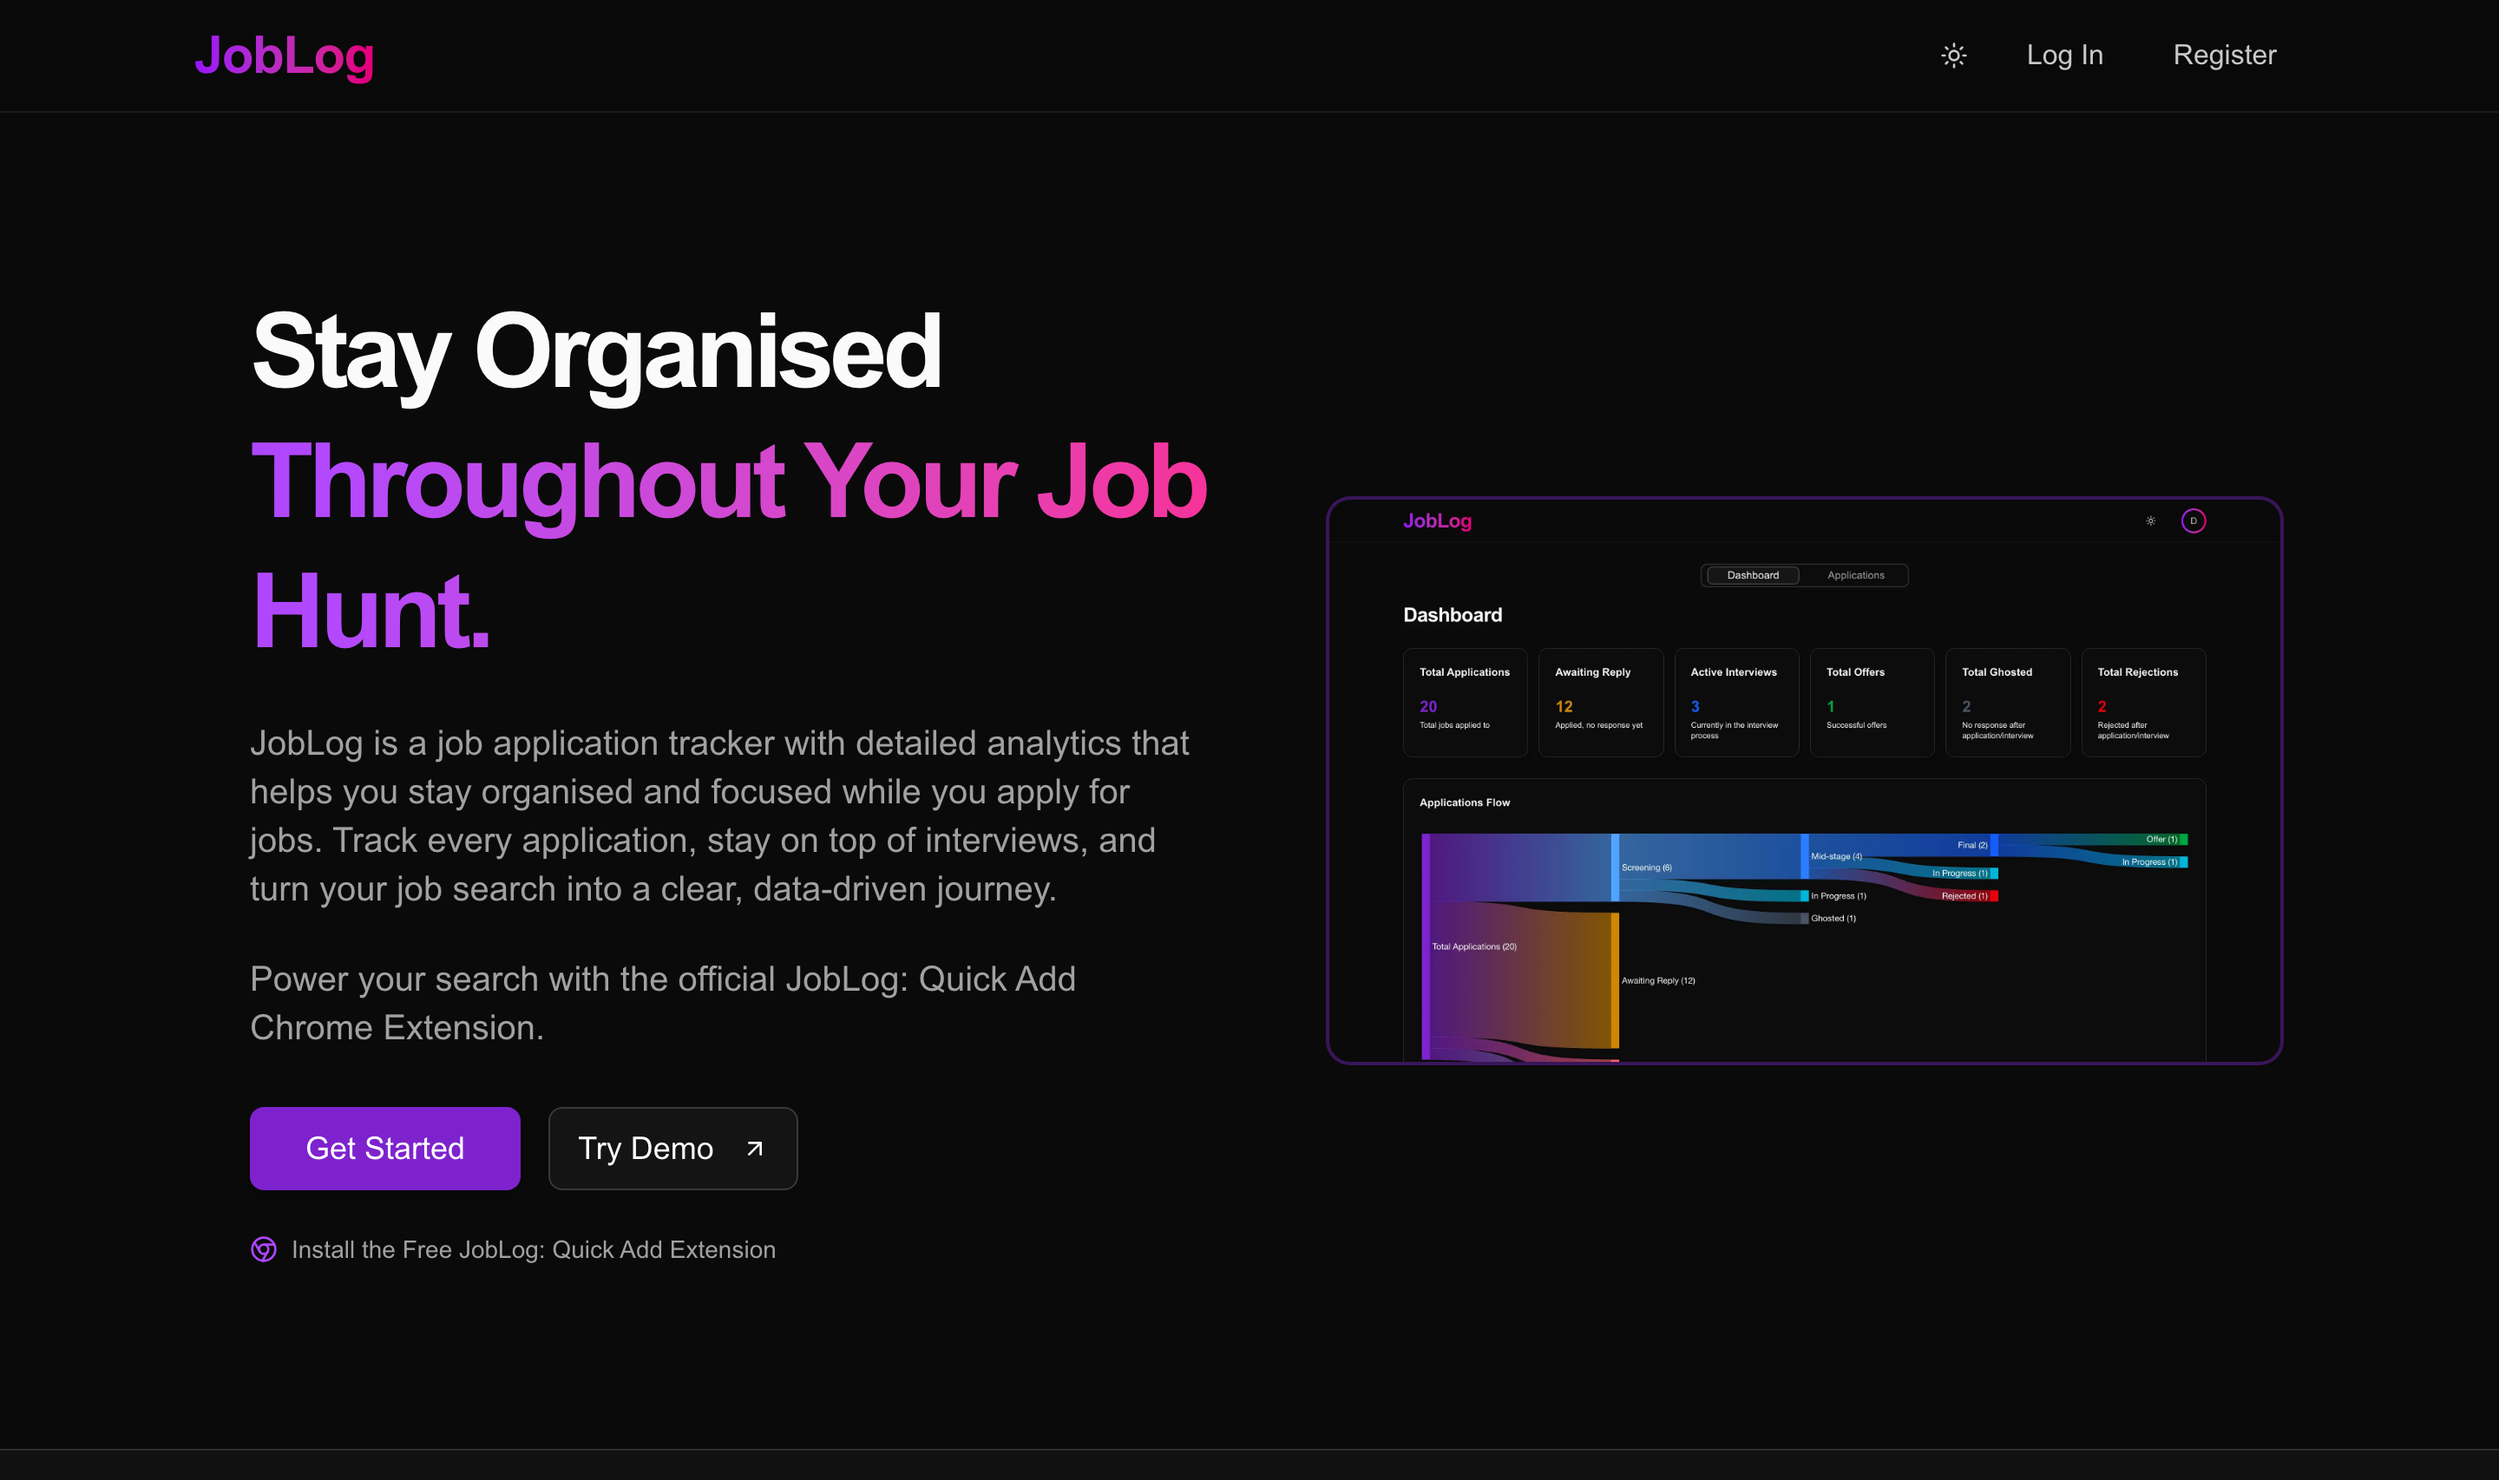
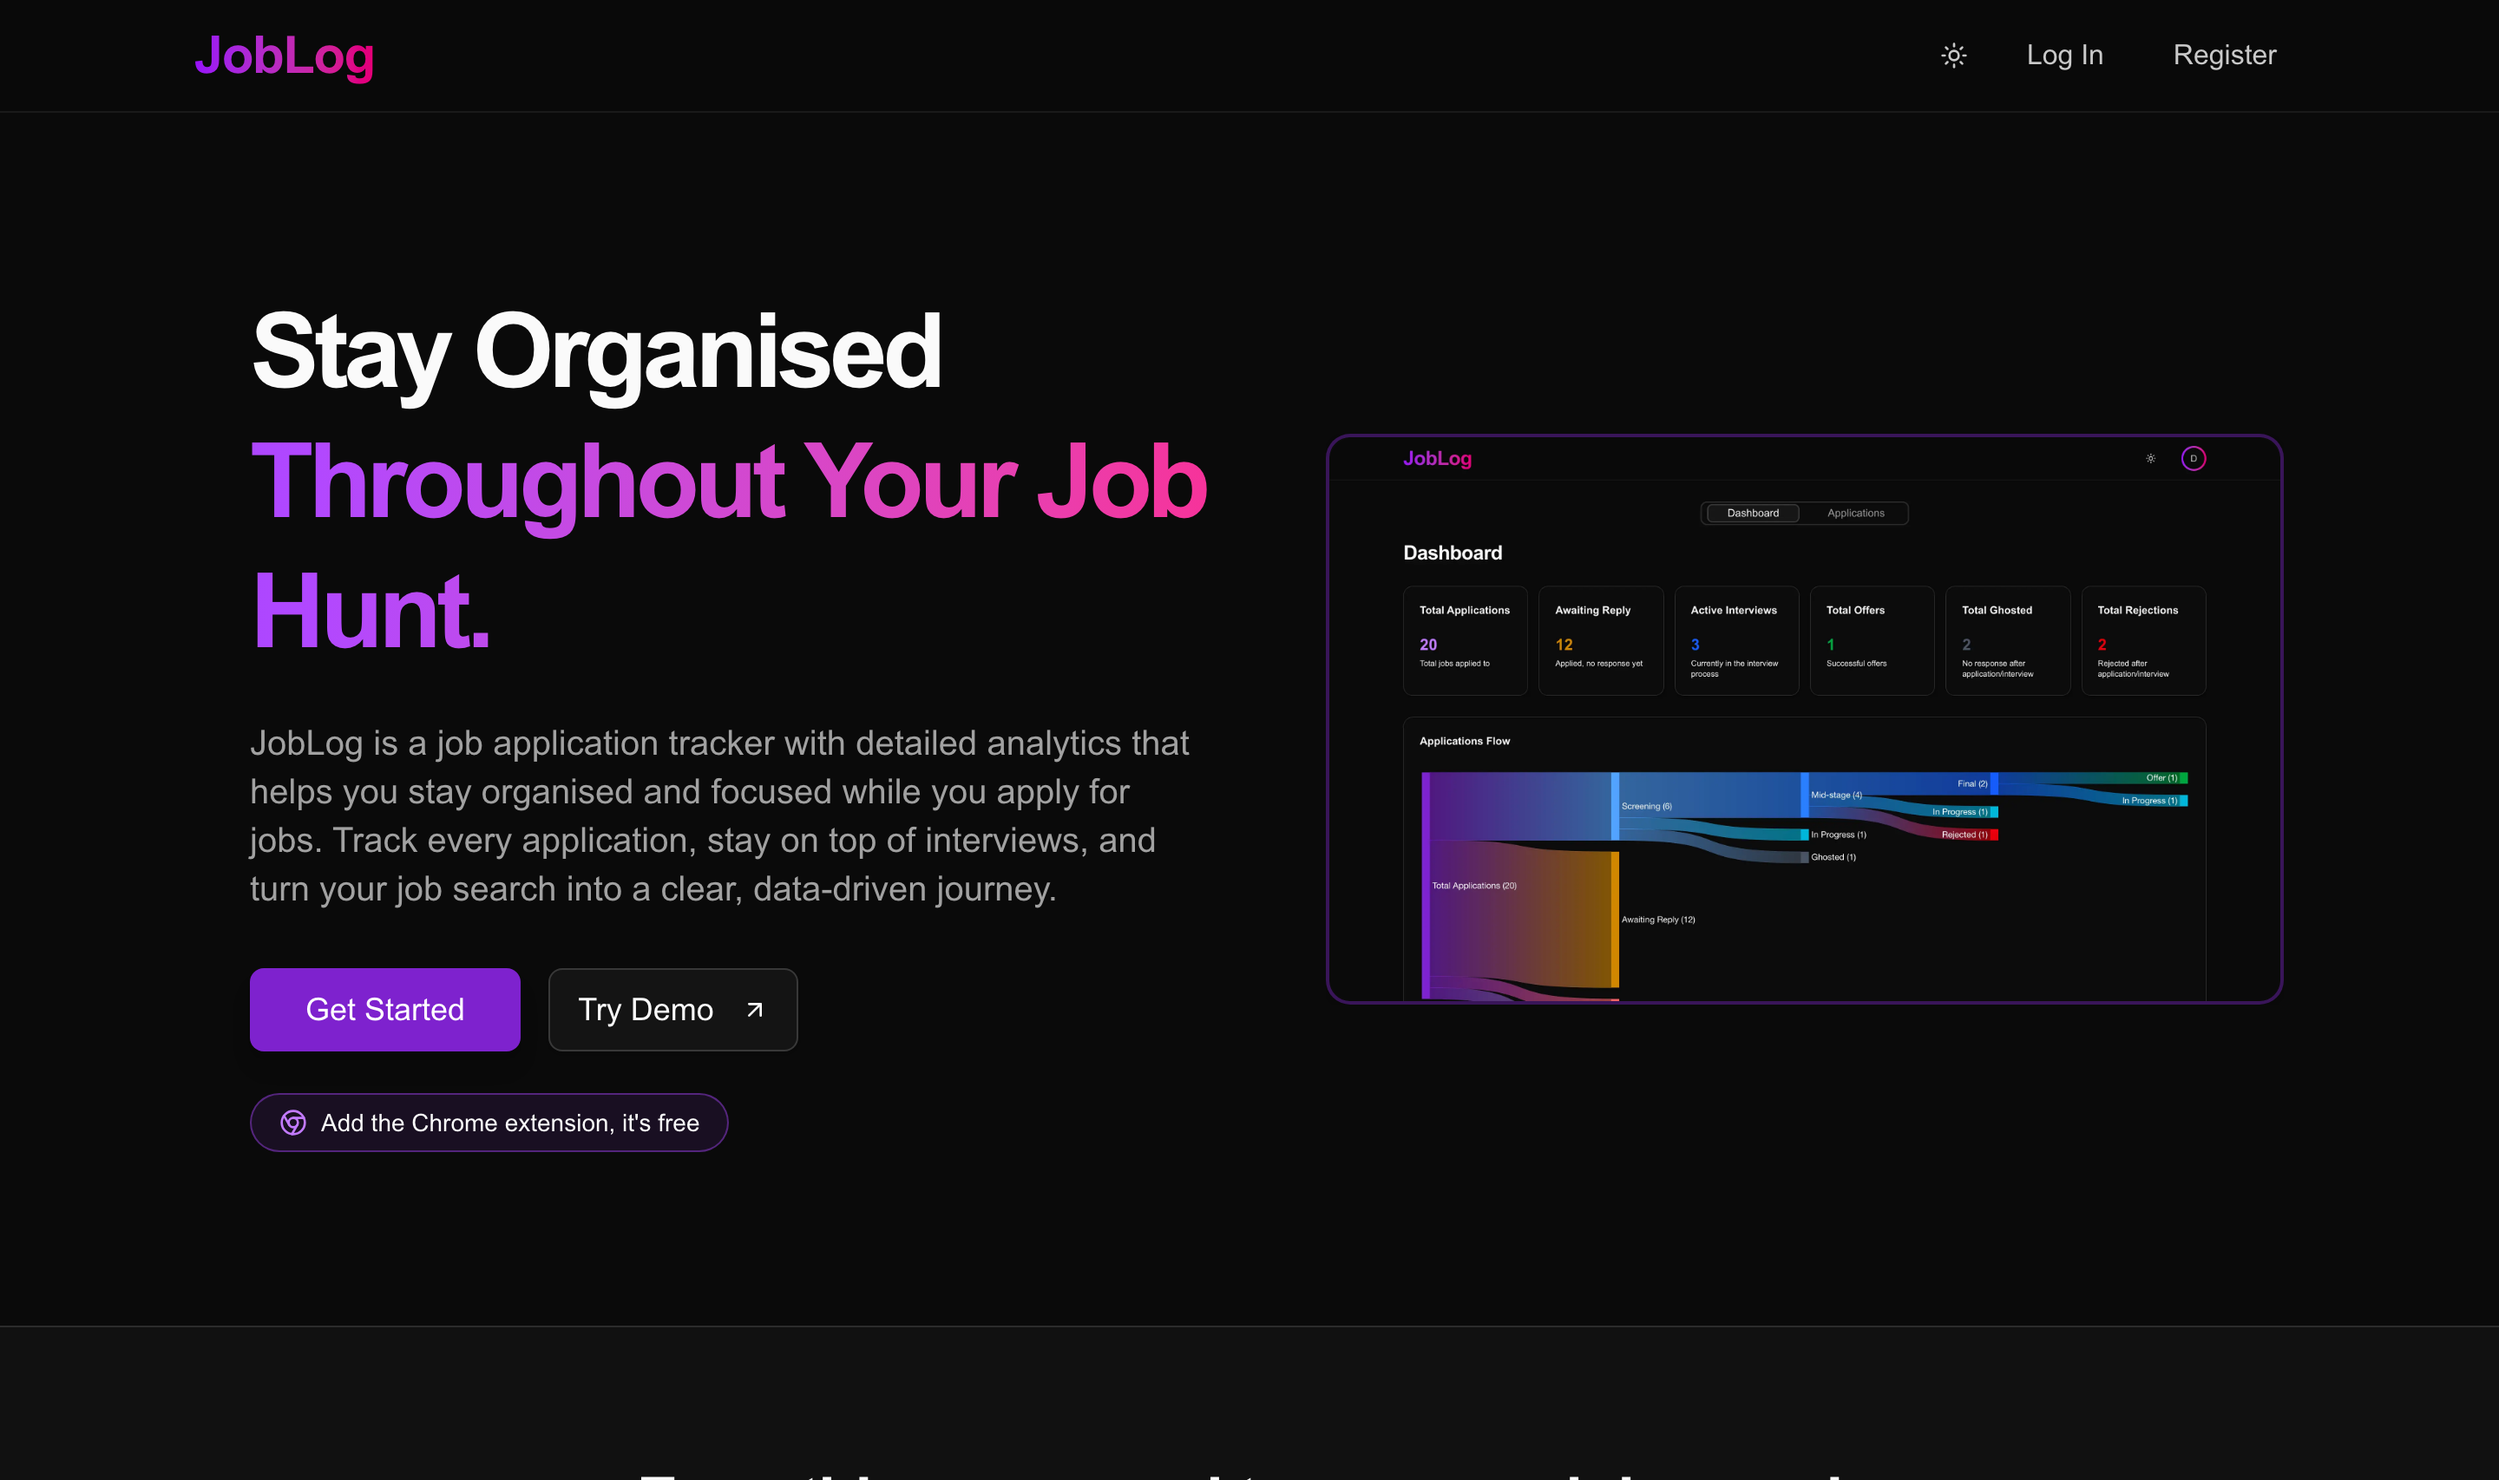
Update the landing page screenshot and README

diff --git a/README.md b/README.md
@@ -65,7 +65,7 @@ It is designed to provide clarity, organisation, and insights throughout the job
 
 ### UI / UX
 * **Modern Design:** Built with **Tailwind CSS** and **shadcn/ui**.
-* **Experience:** Fully responsive design (wide charts scroll sideways on phones), dark/light mode themes, and a landing page with a screenshot carousel and feature overview.
+* **Experience:** Fully responsive design (wide charts scroll sideways on phones), dark/light mode themes, and a landing page with a screenshot carousel, feature overview and Chrome extension showcase.
 * **Getting Started:** New accounts see a short getting-started guide instead of empty charts.
 * **Accessibility:** Status badges meet WCAG AA colour contrast.
 * **Cold-Start Handling:** The landing page, login page and extension ping a health endpoint on load, so the serverless backend is already waking up by the time you log in.
